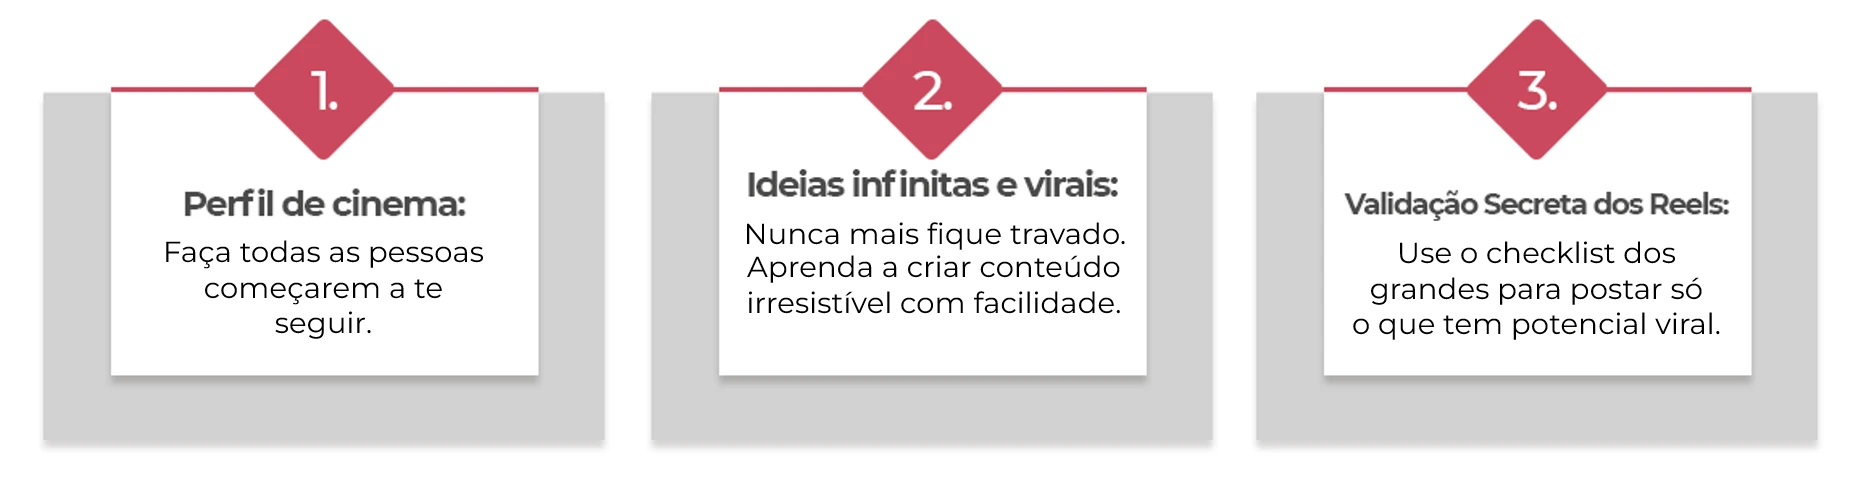
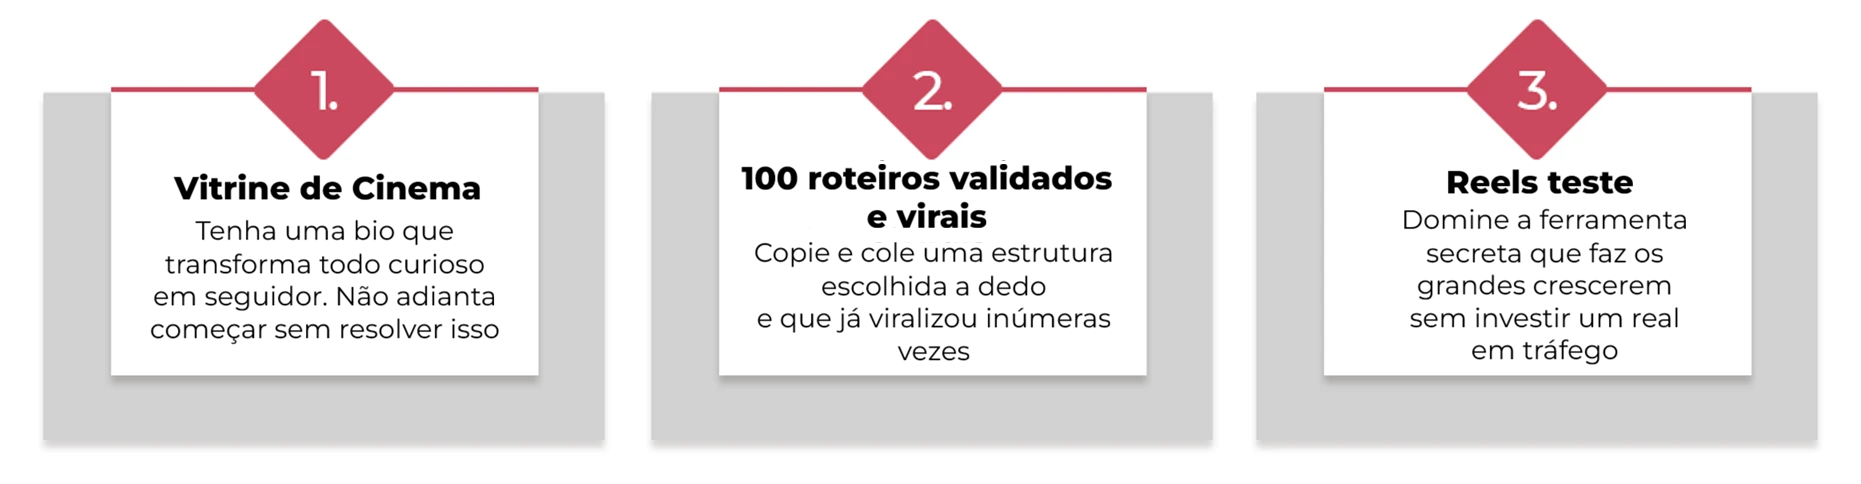
seção: O MÉTODO DOS ROTEIROS VIRAIS

diff --git a/index.html b/index.html
@@ -452,11 +452,10 @@
             <h2
               class="text-lg sm:text-xl md:text-2xl max-w-3xl mx-auto font-bold uppercase"
             >
-              Passos da transformação
+              O Método dos Roteiros Virais
             </h2>
             <p class="mt-4 text-lg md:text-xl leading-loose">
-              É por isso que você precisa viver a Jornada 1000 seguidores por
-              semana. E aqui estão os 3 passos para fazer isso acontecer:
+              Como funciona:
             </p>
           </header>
 
